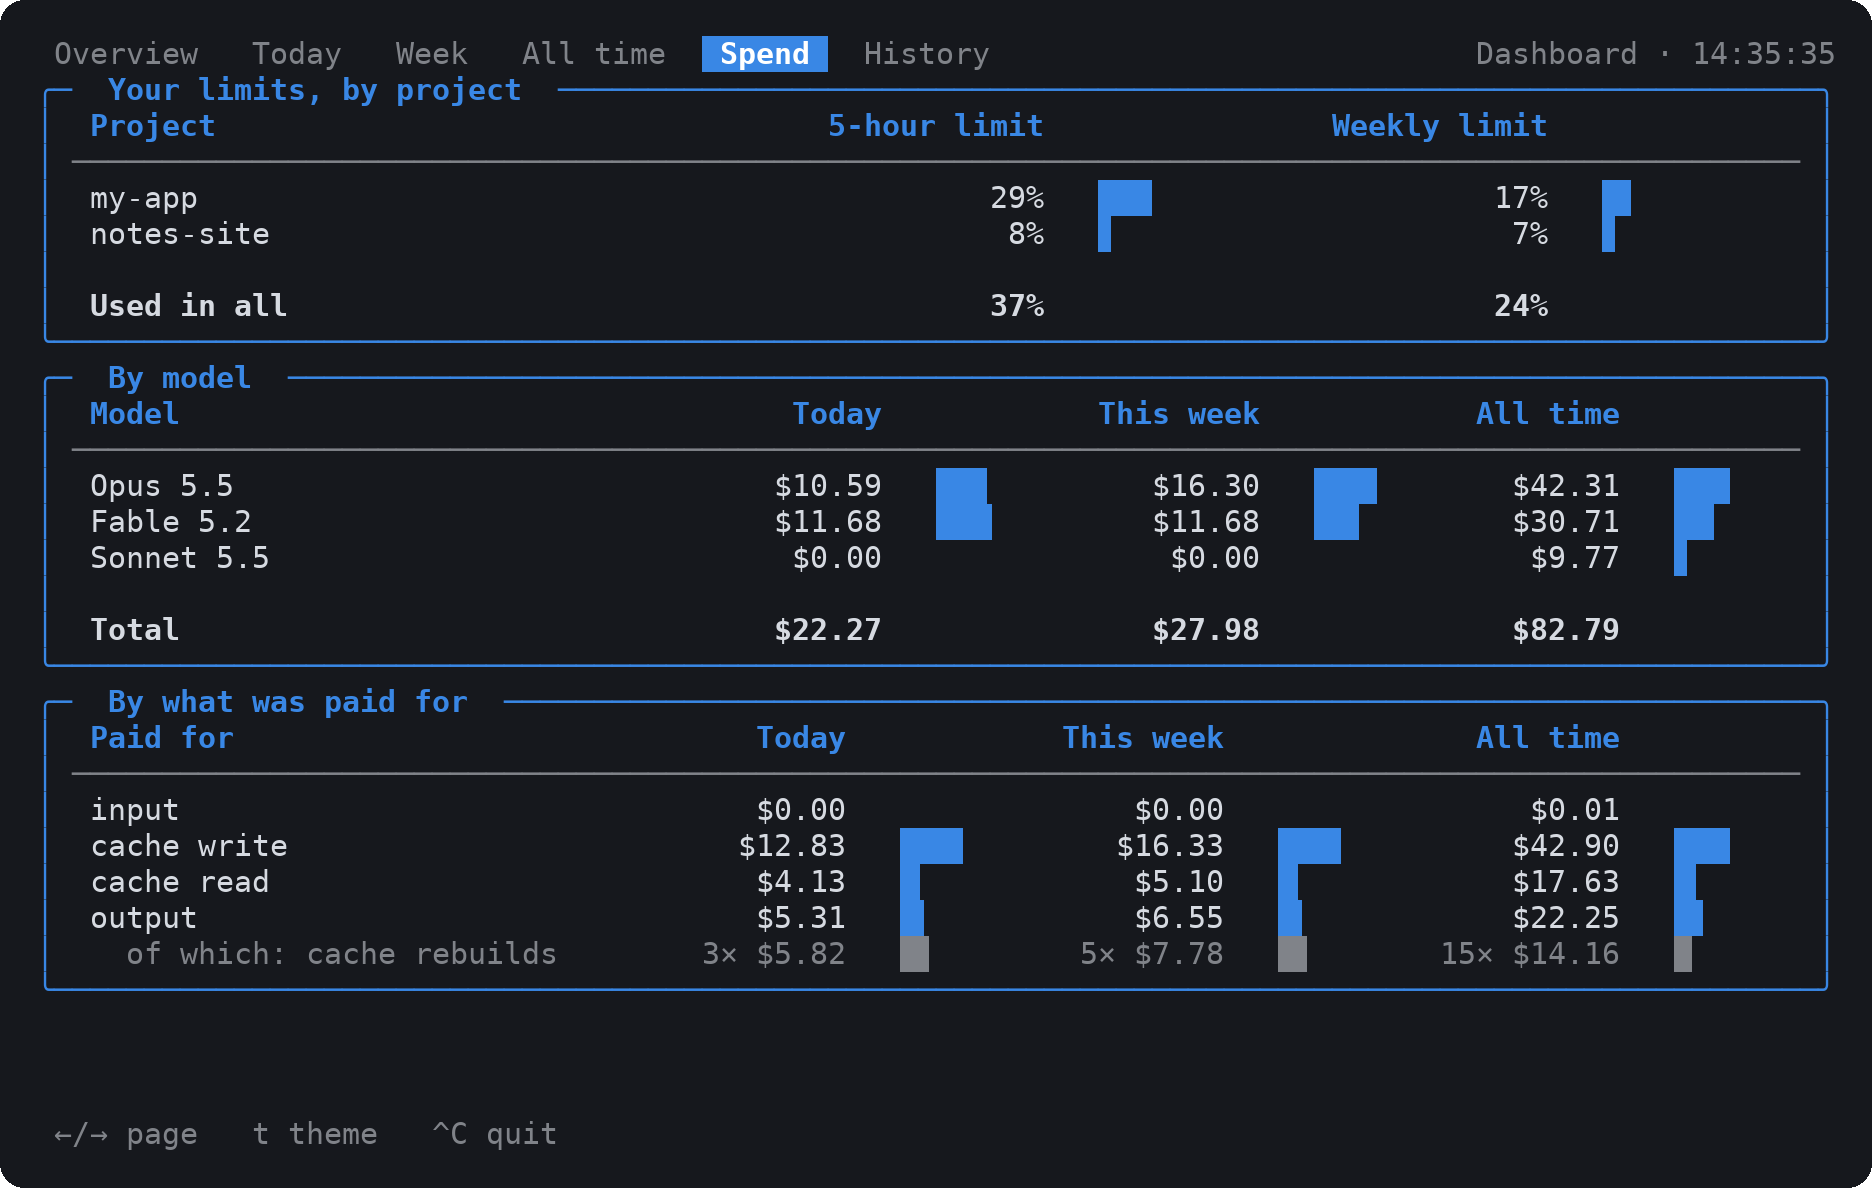
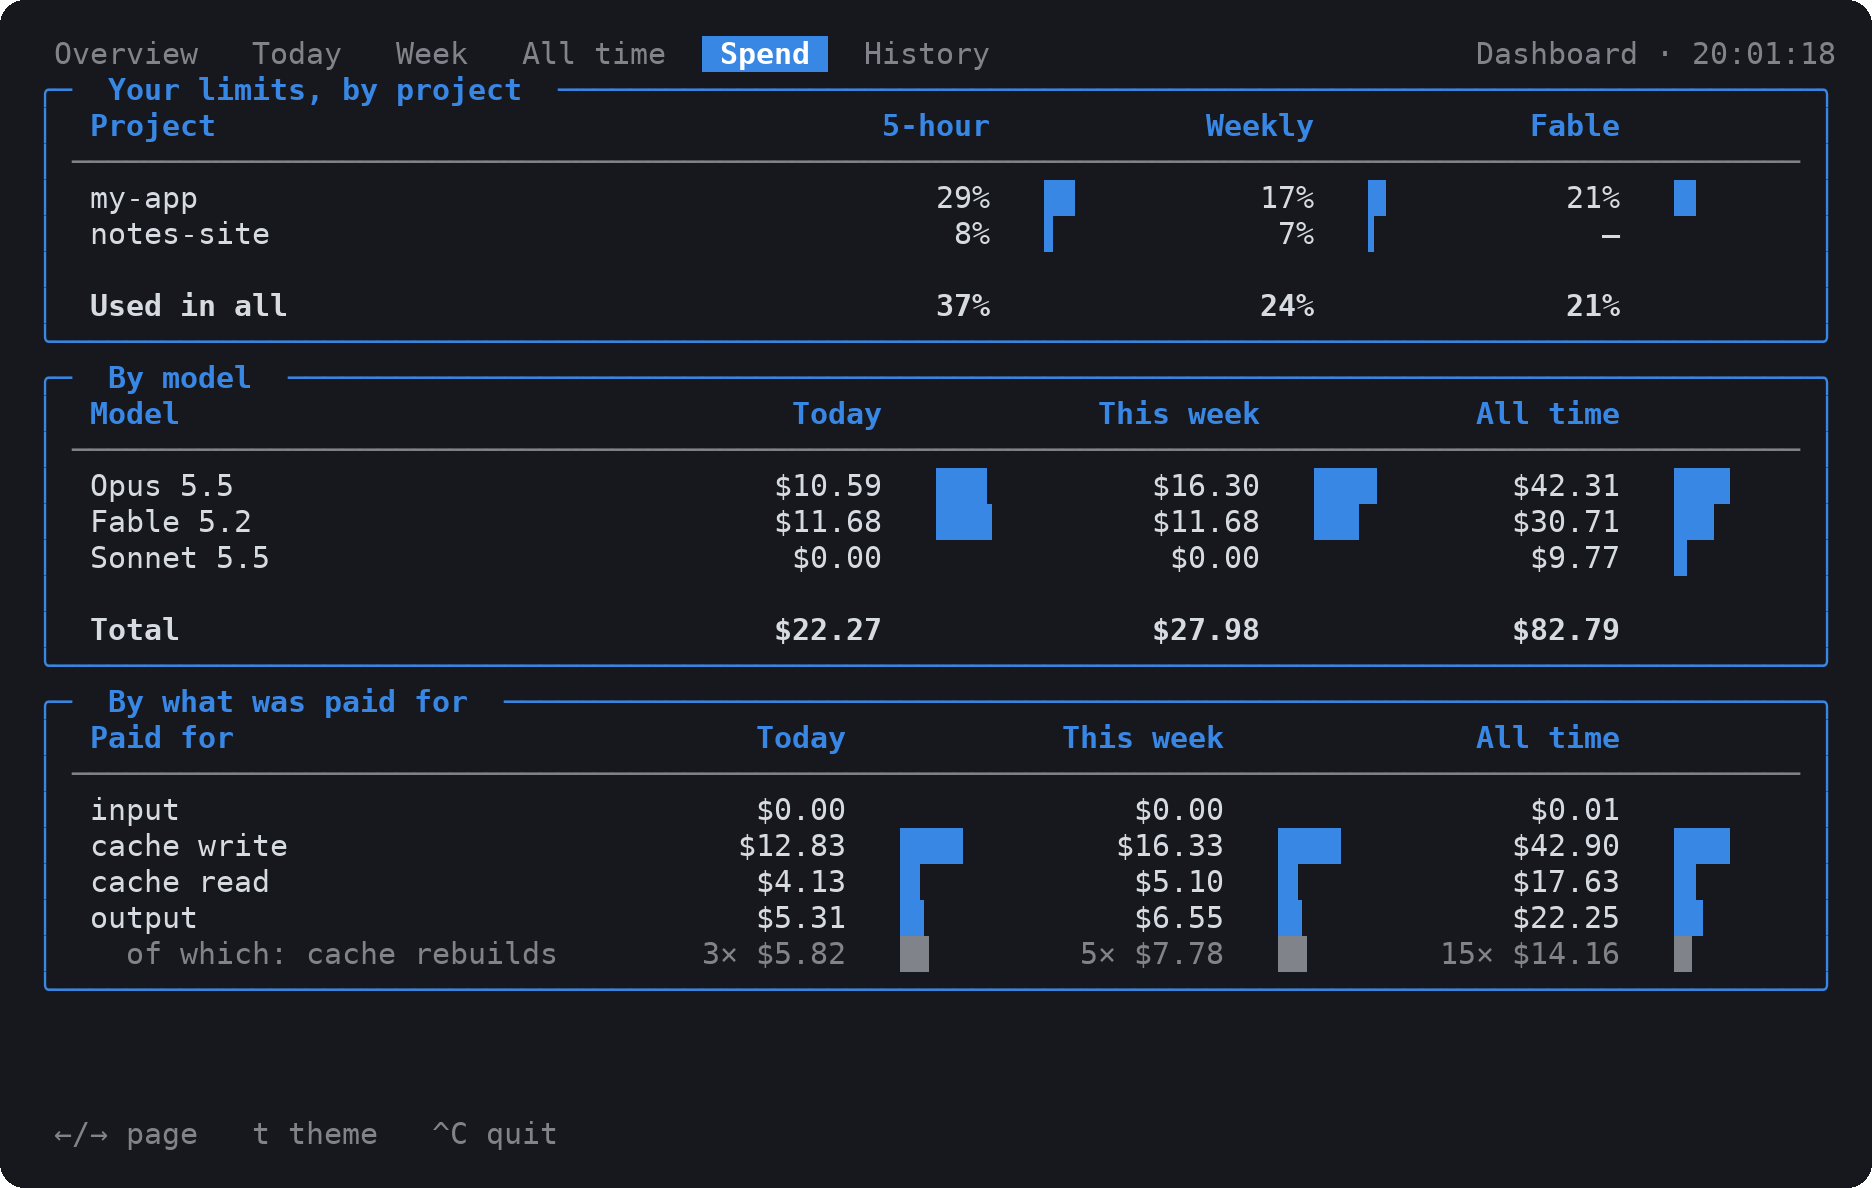
Screenshots with the Fable limit, and Amber lists every session that fits
- The screenshots are drawn with a made-up usage.json too, as --usage-api
  writes it, so the Overviews show the Fable limit and Spend its column.
  Fable is at 21%: today's session is its only one in the week, and past
  ~25% its pace would show a run-out warning. The README's caption says
  the Fable limit comes with --usage-api.
- Amber kept 3 rows more than it needed under its session list; with the
  Fable block it listed one session of three at 31 rows. The count is now
  exact, and the pace line under a meter no longer wraps.

diff --git a/docs/make_screenshot.py b/docs/make_screenshot.py
@@ -47,7 +47,8 @@ SESSIONS = [  # project, title, model, days ago
 
 
 def made_up(root, data, now):
-    """Transcripts for three sessions over the last few hours, and a limits file."""
+    """Transcripts for three sessions over the last few hours, the mod's limits file, and the one --usage-api
+    writes, which has Fable's weekly limit too."""
     random.seed(7)
     prefix = str(Path.home()).replace("/", "-") + "-"
     for project, title, model, days_ago in SESSIONS:
@@ -79,10 +80,16 @@ def made_up(root, data, now):
                 t += dt.timedelta(minutes=random.uniform(2, 25))
         (folder / f"{sid}.jsonl").write_text("\n".join(lines) + "\n")
     data.mkdir(parents=True, exist_ok=True)
-    (data / "ratelimits.json").write_text(json.dumps({"at": int(now.timestamp() * 1000), "rateLimits": [
+    windows = [
         {"kind": "five_hour", "percentUsed": 37, "resetsAt": (now + dt.timedelta(hours=1, minutes=37)).isoformat()},
         {"kind": "seven_day", "percentUsed": 24, "resetsAt": (now + dt.timedelta(days=2, hours=22)).isoformat()},
-    ]}))
+    ]
+    at = int(now.timestamp() * 1000)
+    (data / "ratelimits.json").write_text(json.dumps({"at": at, "rateLimits": windows}))
+    # Fable's own weekly limit resets with the week. 21% of it for today's Fable session keeps its pace calm
+    # (past ~25%, a day like today would put it on course to run out before the week resets)
+    fable = {"kind": "seven_day_fable", "label": "Fable", "percentUsed": 21, "resetsAt": windows[1]["resetsAt"]}
+    (data / "usage.json").write_text(json.dumps({"at": at, "rateLimits": windows + [fable]}))
 
 
 def rgb(color, default):

diff --git a/cc_usage.py b/cc_usage.py
@@ -1004,7 +1004,7 @@ def amber_limit(label, info, reason, window, look, width, now, detail=None):
     if detail is None:
         detail = f"resets {at} · in {until(reset - now)}" + (f" · ~{left.money()} left" if left else "")
     caption = time_caption("  " + detail.upper(), len(prefix) + mark_x(gone, mw), width, gone, window, look, caps=True)
-    return [line, caption, Text("  ") + pace_text(info, look, caps=True)]
+    return [line, caption, Text("  ", no_wrap=True, overflow="ellipsis") + pace_text(info, look, caps=True)]
 
 
 def reset_text(d):
@@ -1243,7 +1243,7 @@ def overview_amber(d, look, width, height):
         parts += ["", *amber_limit(s.label.upper(), s.info, s.reason, "week", look, width, d.now,
                                    detail=scoped_detail(s, d) if s.info else None)]
     parts += ["", Text("> ACTIVE PROCESSES", style=AMBER)]
-    room = max(1, height - 22 - sum(4 if s.info else 2 for s in d.scoped))
+    room = max(1, height - len(parts) - 4)  # each part is a line; the week, READY and their gaps follow
     for n, a in enumerate(d.active[:room], 1):
         name = Text(("⚠ " if a.warn else "") + a.title, style=look.warn if a.warn else AMBER)
         name.truncate(max(10, width - 66), overflow="ellipsis", pad=True)

diff --git a/README.md b/README.md
@@ -9,7 +9,7 @@ on your machine, so nothing is sent anywhere unless you turn on `--usage-api` (s
 
 ![The Dashboard theme](docs/dash.png)
 
-<sub>The Dashboard theme, drawn from made-up sessions.</sub>
+<sub>The Dashboard theme, drawn from made-up sessions, with `--usage-api` on for the Fable limit.</sub>
 
 ## What it shows
 
